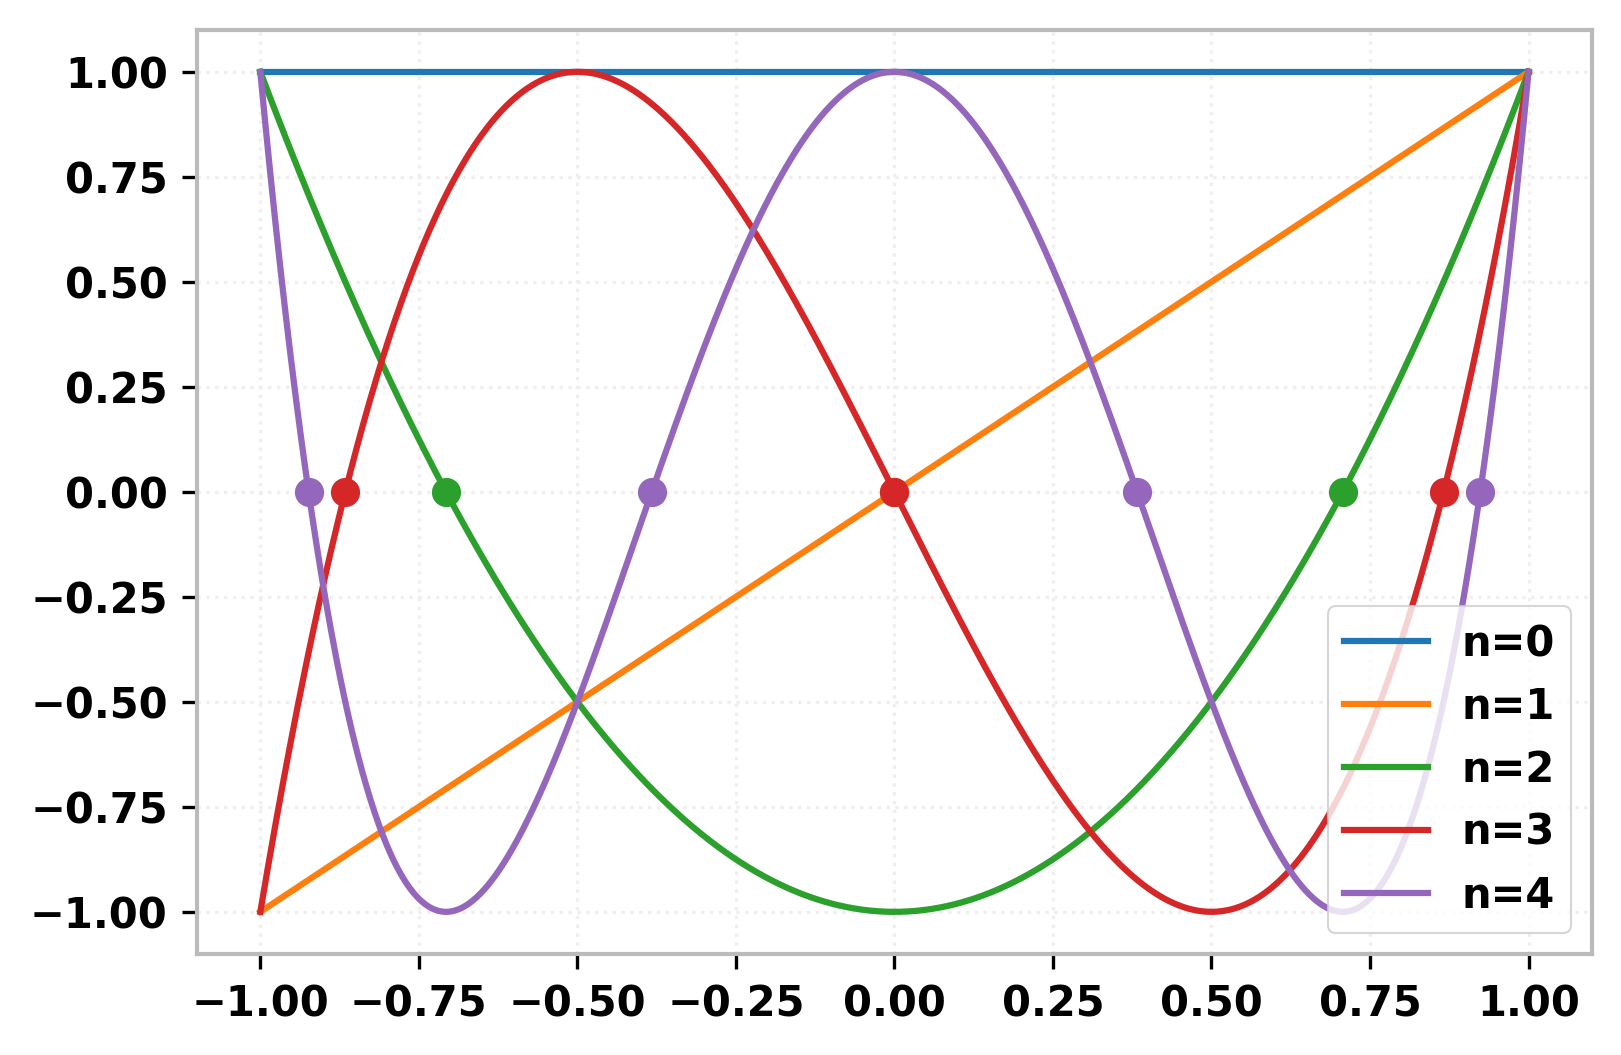
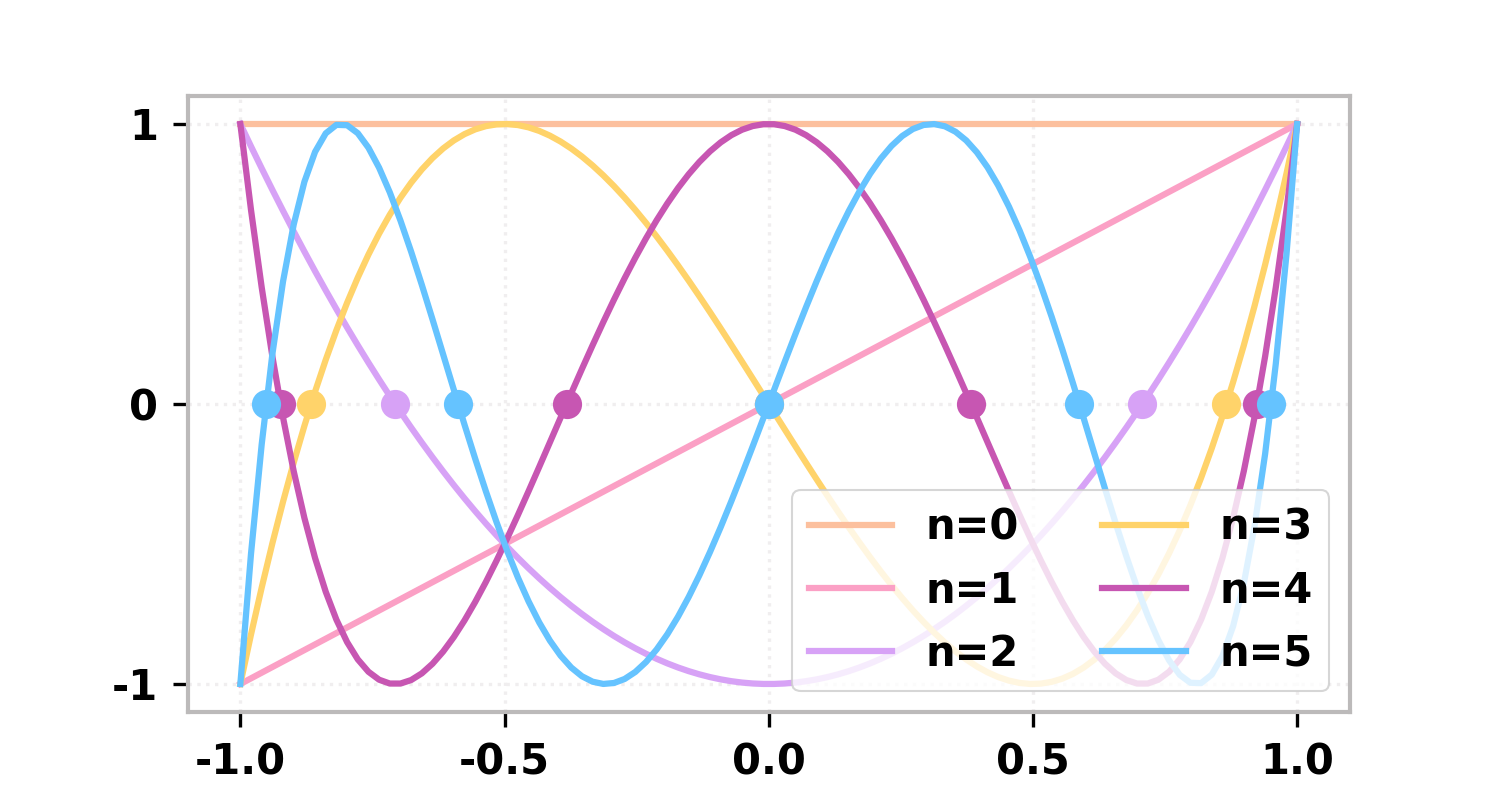
Changed Chebyshev polynomials plot.
Matches PennyLane palette.

diff --git a/demonstrations/tutorial_quantum_chebyshev_transform.py b/demonstrations/tutorial_quantum_chebyshev_transform.py
@@ -208,7 +208,7 @@ fig, ax = qml.draw_mpl(circuit_to_draw, decimals=2, style="pennylane")()
 fig.show()
 
 #############################################
-# Note the new function is defined only to remove the returned ``qml.state``, simplifying the circuit drawn.
+# Note the new function is defined only to remove the returned ``qml.state``, simplifying the drawn circuit.
 
 #############################################
 # Testing the QChT
